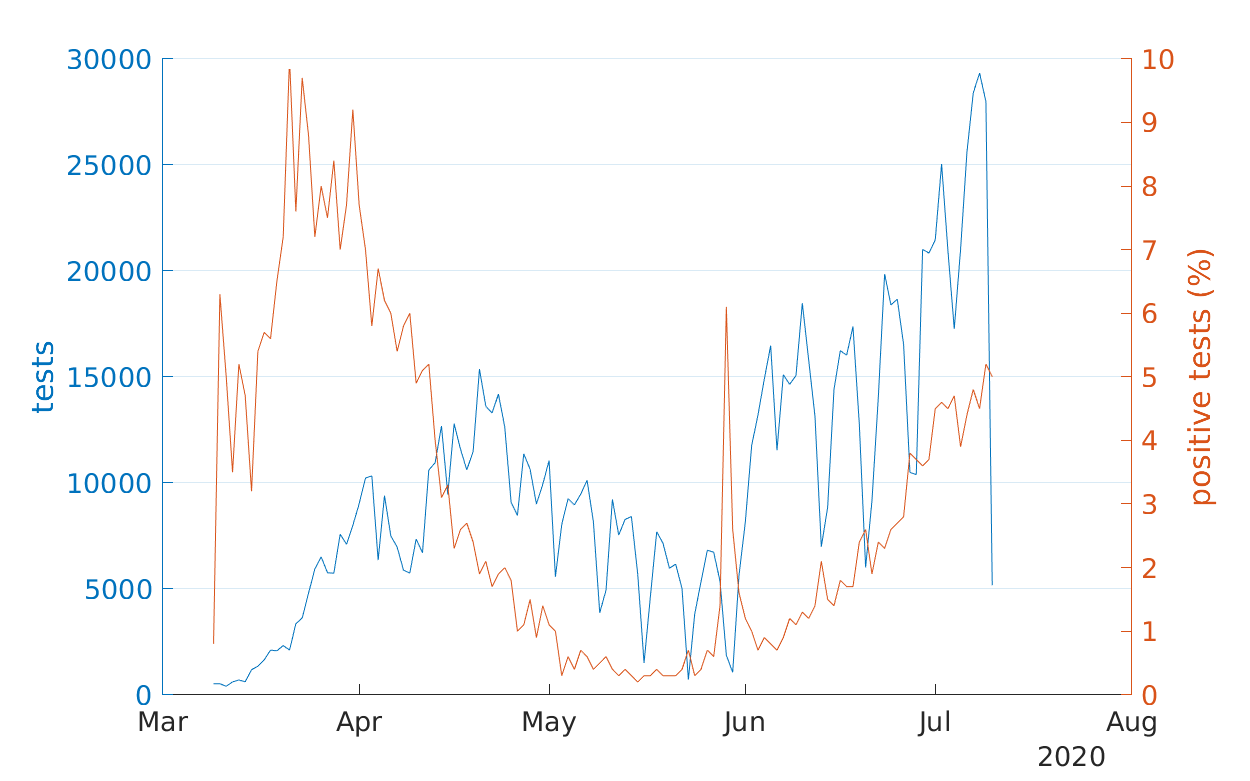
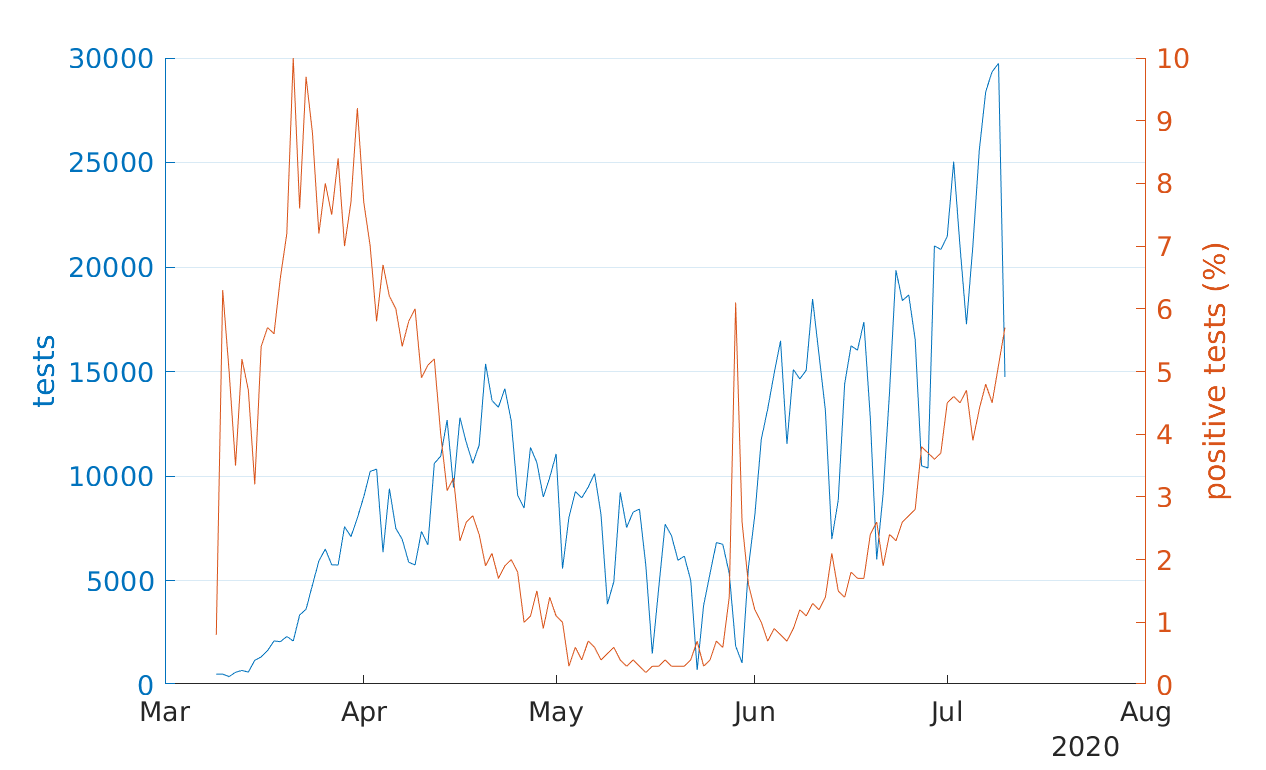
daily update

diff --git a/docs/myCountry.html b/docs/myCountry.html
@@ -130,7 +130,7 @@ body, h1,h2,h3,h4,h5,h6 {font-family: "Montserrat", sans-serif}
   </header>
   <header class="w3-container w3-padding-32 w3-center w3-black" id="home">
     <h1 class="w3-jumbo">אחוז הבדיקות החיוביות</h1>
-    <h3 align="center">תשובה חיובית התקבלה עבור 5% מהתוצאות היומיות  </h3>
+    <h3 align="center">תשובה חיובית התקבלה עבור 5.7% מהתוצאות היומיות  </h3>
     <img src="percent_positive.png" alt="highest" class="w3-image" width="851">
   </header>
   <header class="w3-container w3-padding-32 w3-center w3-black" id="home">
